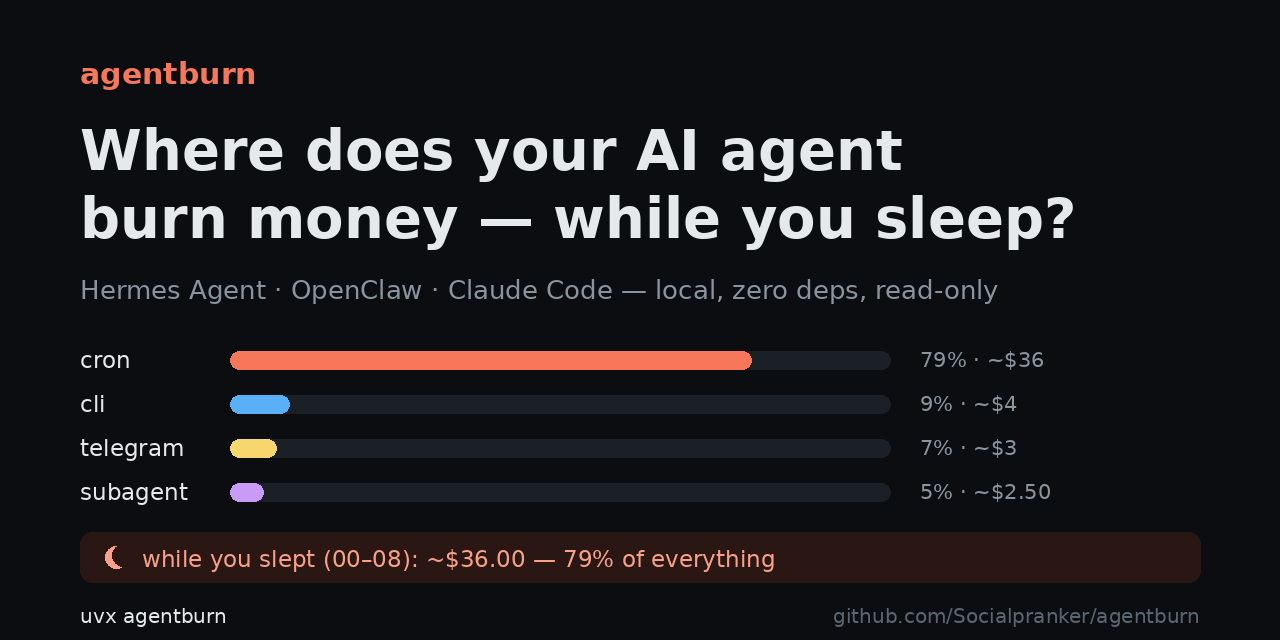
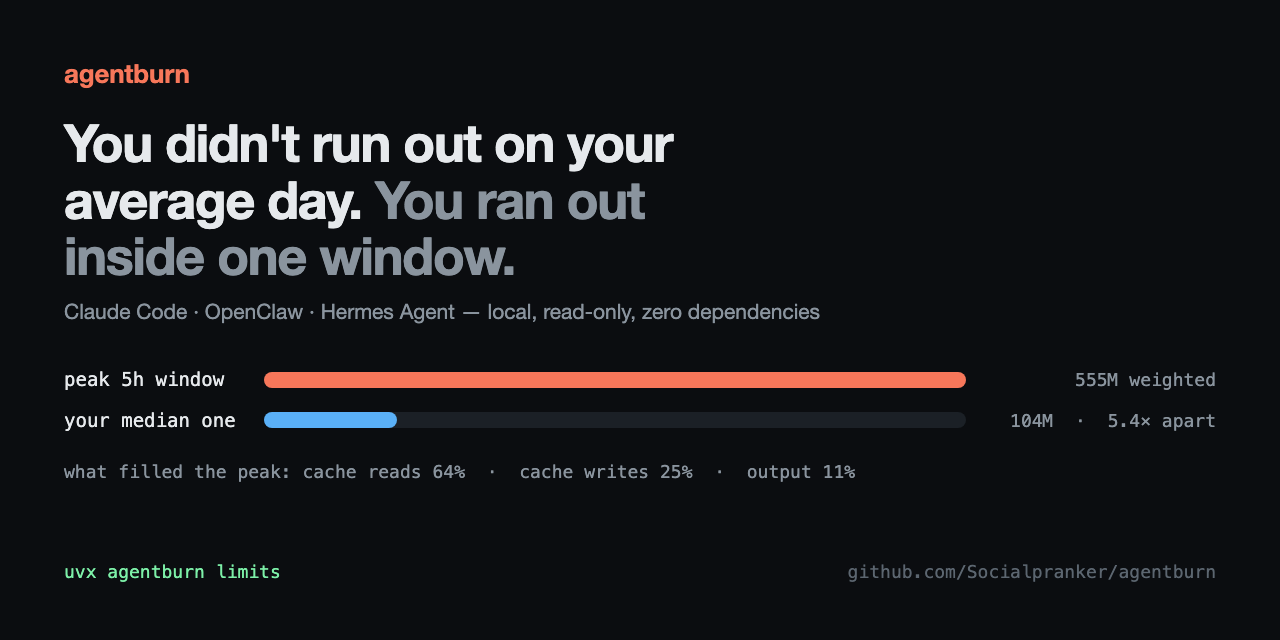
chore: карточка ссылки под новый хук + генератор
Картинка 1280×640 лежала в репо, но в настройках не выставлена: ссылка на
репозиторий разворачивалась серой заглушкой в X, Slack и на HN. Плюс старая
вела Hermes и деньги, а вопрос теперь про окно.

Генератор рендерит через Chrome headless (обход двух граблей: TCC на
~/Downloads и процесс, который пишет файл и не выходит).

diff --git a/tools/gen_social.py b/tools/gen_social.py
@@ -1,0 +1,127 @@
+#!/usr/bin/env python3
+"""Render the GitHub social-preview card (1280×640 PNG).
+
+The card is what a link to this repo looks like on X, Slack, Reddit and HN —
+it has to carry the hook, not the feature list. Chrome renders the HTML; there
+is no image dependency to install.
+
+    python3 tools/gen_social.py
+
+Notes: Chrome is asked to screenshot from a temp dir (macOS TCC can silently
+stall a headless run reading from ~/Downloads) and is killed once the file
+stops growing (headless Chrome routinely writes the file and never exits).
+"""
+
+from __future__ import annotations
+
+import os
+import shutil
+import subprocess
+import tempfile
+import time
+
+W, H = 1280, 640
+
+HTML = """<!doctype html><meta charset="utf-8">
+<style>
+  @font-face { font-family: x; src: local("Helvetica Neue"); }
+  * { box-sizing: border-box; margin: 0; }
+  body { width: %(w)spx; height: %(h)spx; background: #0b0d10; color: #e6e9ec;
+         font: 400 20px/1.4 ui-sans-serif, -apple-system, "Helvetica Neue", sans-serif;
+         padding: 56px 64px; display: flex; flex-direction: column; }
+  .brand { color: #f7775a; font-weight: 700; font-size: 26px; letter-spacing: -0.2px; }
+  h1 { font-size: 52px; line-height: 1.08; font-weight: 700; letter-spacing: -1.2px;
+       margin: 22px 0 0; }
+  h1 .q { color: #8a949e; }
+  .sub { color: #8a949e; font-size: 21px; margin-top: 14px; }
+  .rows { margin-top: 40px; display: grid; grid-template-columns: 200px 1fr 250px;
+          row-gap: 14px; align-items: center; font-family: ui-monospace, Menlo, monospace;
+          font-size: 19px; }
+  .lab { color: #e6e9ec; }
+  .track { height: 16px; border-radius: 9px; background: #1b2026; position: relative; }
+  .fill { position: absolute; inset: 0 auto 0 0; border-radius: 9px; }
+  .val { color: #8a949e; text-align: right; font-size: 18px; }
+  .fills { margin-top: 26px; color: #8a949e; font-size: 18px;
+           font-family: ui-monospace, Menlo, monospace; }
+  .foot { margin-top: auto; display: flex; justify-content: space-between;
+          align-items: baseline; color: #5c6670; font-size: 18px;
+          font-family: ui-monospace, Menlo, monospace; }
+  .foot b { color: #7df0a8; font-weight: 400; }
+</style>
+<div class="brand">agentburn</div>
+<h1>You didn't run out on your<br>average day. <span class="q">You ran out<br>inside one window.</span></h1>
+<div class="sub">Claude Code · OpenClaw · Hermes Agent — local, read-only, zero dependencies</div>
+<div class="rows">
+  <div class="lab">peak 5h window</div>
+  <div class="track"><div class="fill" style="width:100%%;background:#f7775a"></div></div>
+  <div class="val">555M weighted</div>
+  <div class="lab">your median one</div>
+  <div class="track"><div class="fill" style="width:19%%;background:#5ab0f7"></div></div>
+  <div class="val">104M &nbsp;·&nbsp; 5.4× apart</div>
+</div>
+<div class="fills">what filled the peak: cache reads 64%% &nbsp;·&nbsp; cache writes 25%% &nbsp;·&nbsp; output 11%%</div>
+<div class="foot"><span><b>uvx agentburn limits</b></span><span>github.com/Socialpranker/agentburn</span></div>
+""" % {"w": W, "h": H}
+
+CHROME_CANDIDATES = (
+    "/Applications/Google Chrome.app/Contents/MacOS/Google Chrome",
+    "/Applications/Chromium.app/Contents/MacOS/Chromium",
+    shutil.which("google-chrome") or "",
+    shutil.which("chromium") or "",
+)
+
+
+def chrome() -> str:
+    for path in CHROME_CANDIDATES:
+        if path and os.path.exists(path):
+            return path
+    raise SystemExit(
+        "no Chrome/Chromium found — install one or render the HTML yourself"
+    )
+
+
+def main() -> None:
+    work = tempfile.mkdtemp(prefix="agentburn-social-")
+    src = os.path.join(work, "card.html")
+    png = os.path.join(work, "social-preview.png")
+    with open(src, "w", encoding="utf-8") as f:
+        f.write(HTML)
+
+    proc = subprocess.Popen(
+        [
+            chrome(),
+            "--headless=new",
+            "--disable-gpu",
+            "--hide-scrollbars",
+            f"--window-size={W},{H}",
+            f"--screenshot={png}",
+            "--virtual-time-budget=2000",
+            f"--user-data-dir={os.path.join(work, 'profile')}",
+            f"file://{src}",
+        ],
+        stdout=subprocess.DEVNULL,
+        stderr=subprocess.DEVNULL,
+    )
+    # Headless Chrome writes the file and then keeps running: wait for a stable
+    # size rather than for the process to exit.
+    last, stable, deadline = -1, 0, time.time() + 60
+    while time.time() < deadline and stable < 2:
+        time.sleep(0.5)
+        size = os.path.getsize(png) if os.path.exists(png) else -1
+        stable = stable + 1 if size == last and size > 0 else 0
+        last = size
+    proc.kill()
+    if not os.path.exists(png) or os.path.getsize(png) == 0:
+        raise SystemExit("Chrome produced no screenshot")
+
+    dest = os.path.join(os.path.dirname(__file__), "..", "assets", "social-preview.png")
+    shutil.copyfile(png, dest)
+    shutil.rmtree(work, ignore_errors=True)
+    print(f"assets/social-preview.png: {os.path.getsize(dest):,} bytes ({W}×{H})")
+    print(
+        "Upload it at Settings → General → Social preview (there is no API for this)."
+    )
+
+
+if __name__ == "__main__":
+    main()
